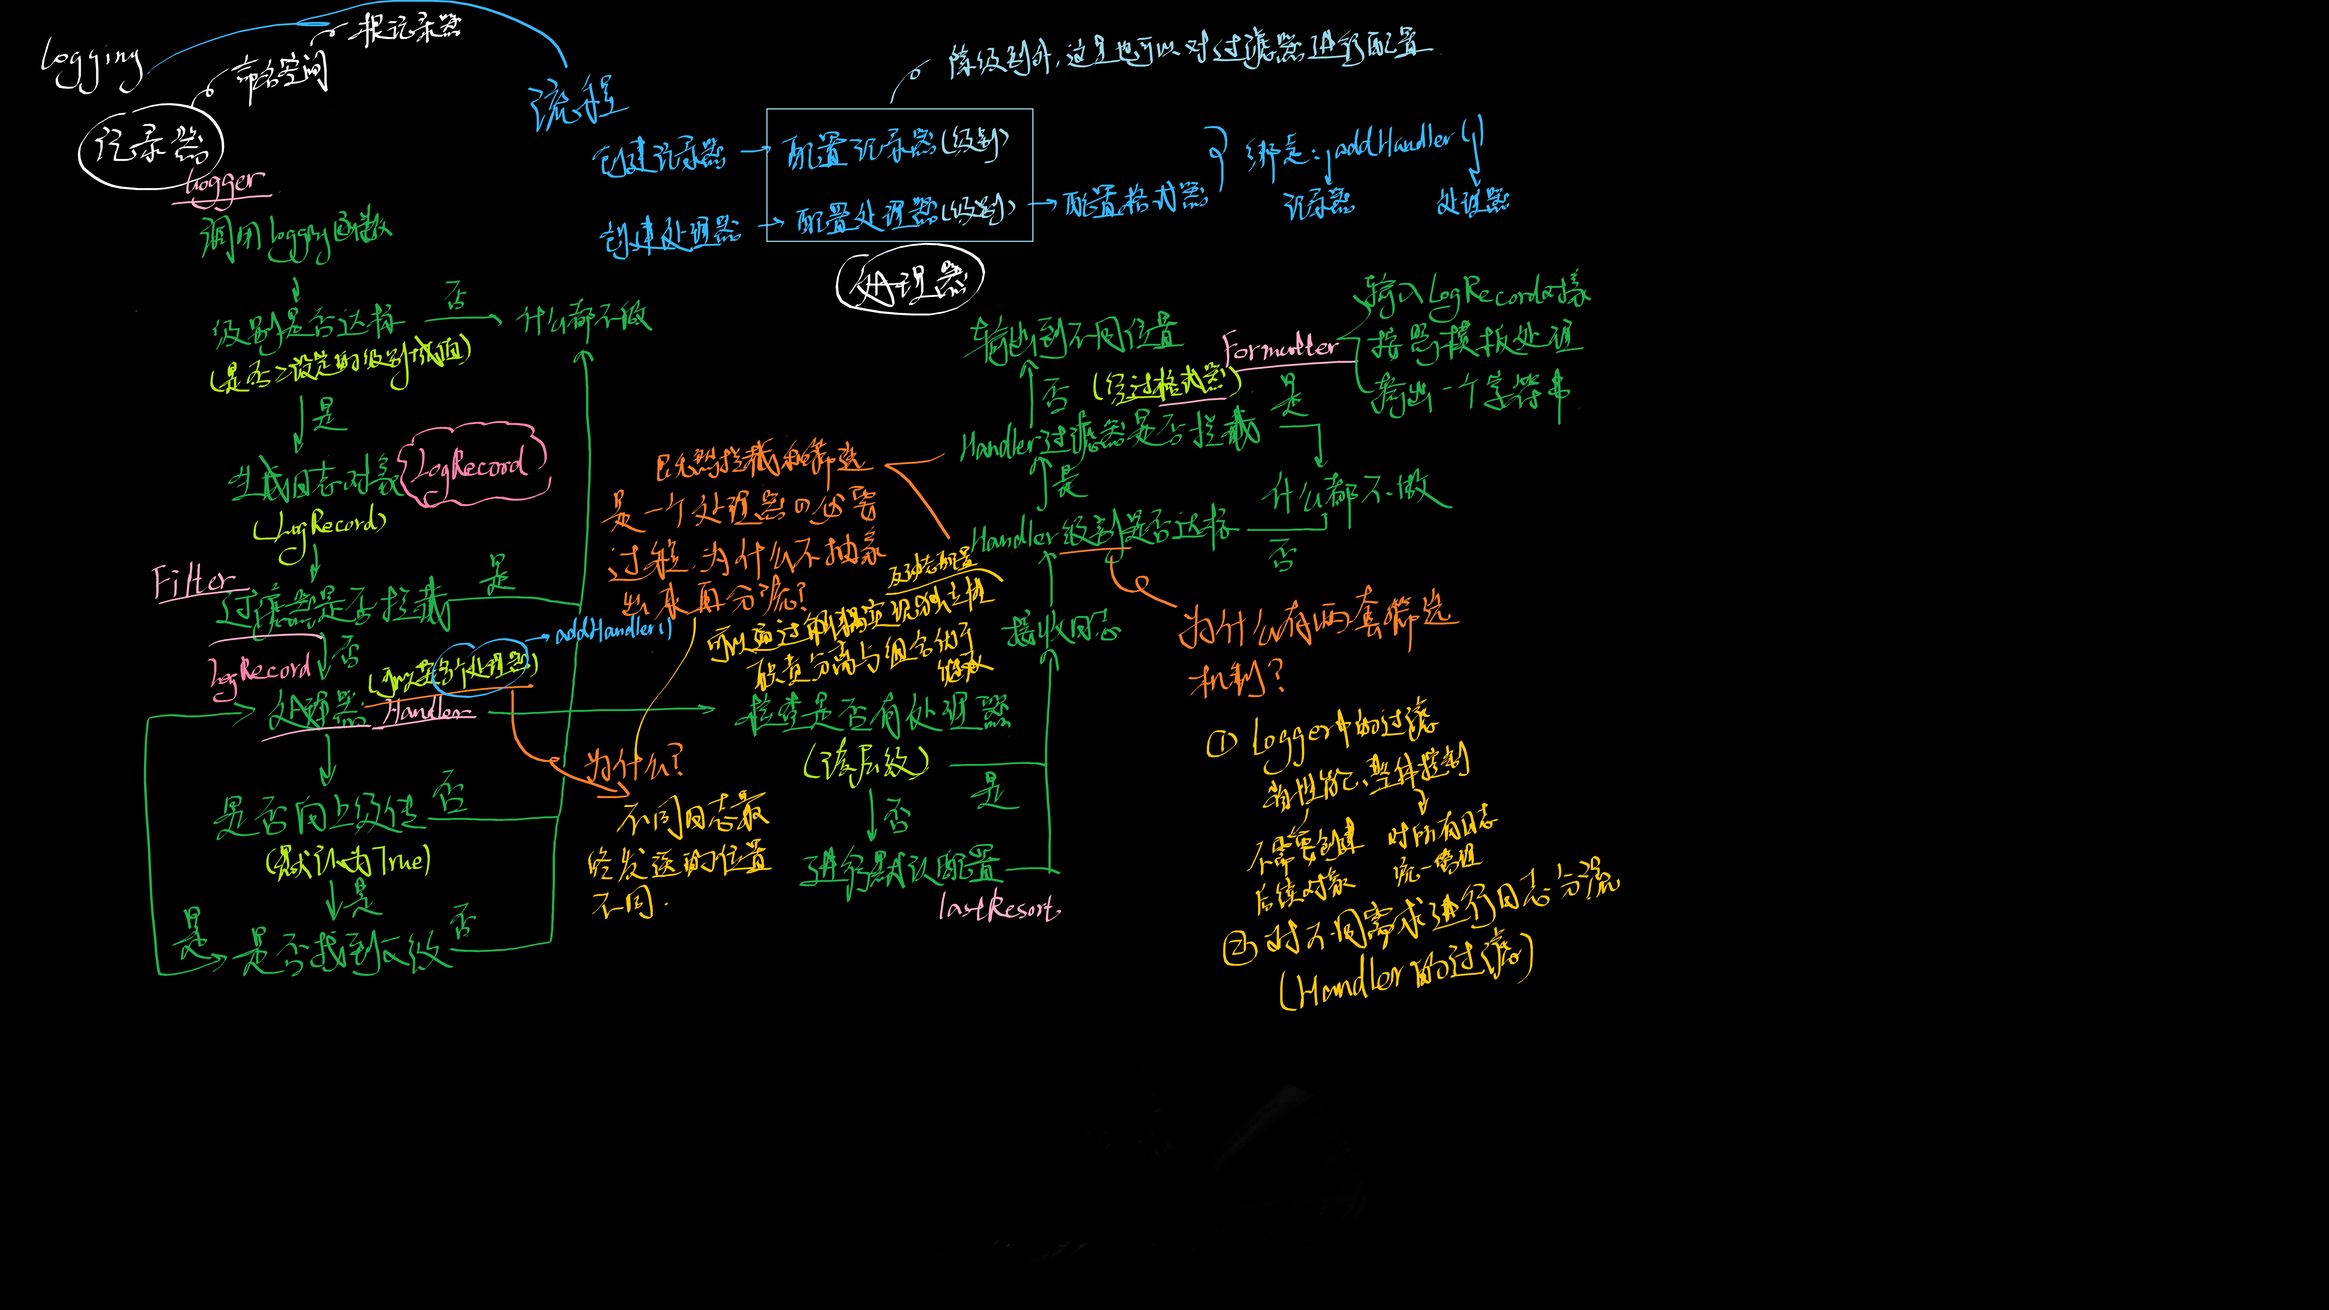
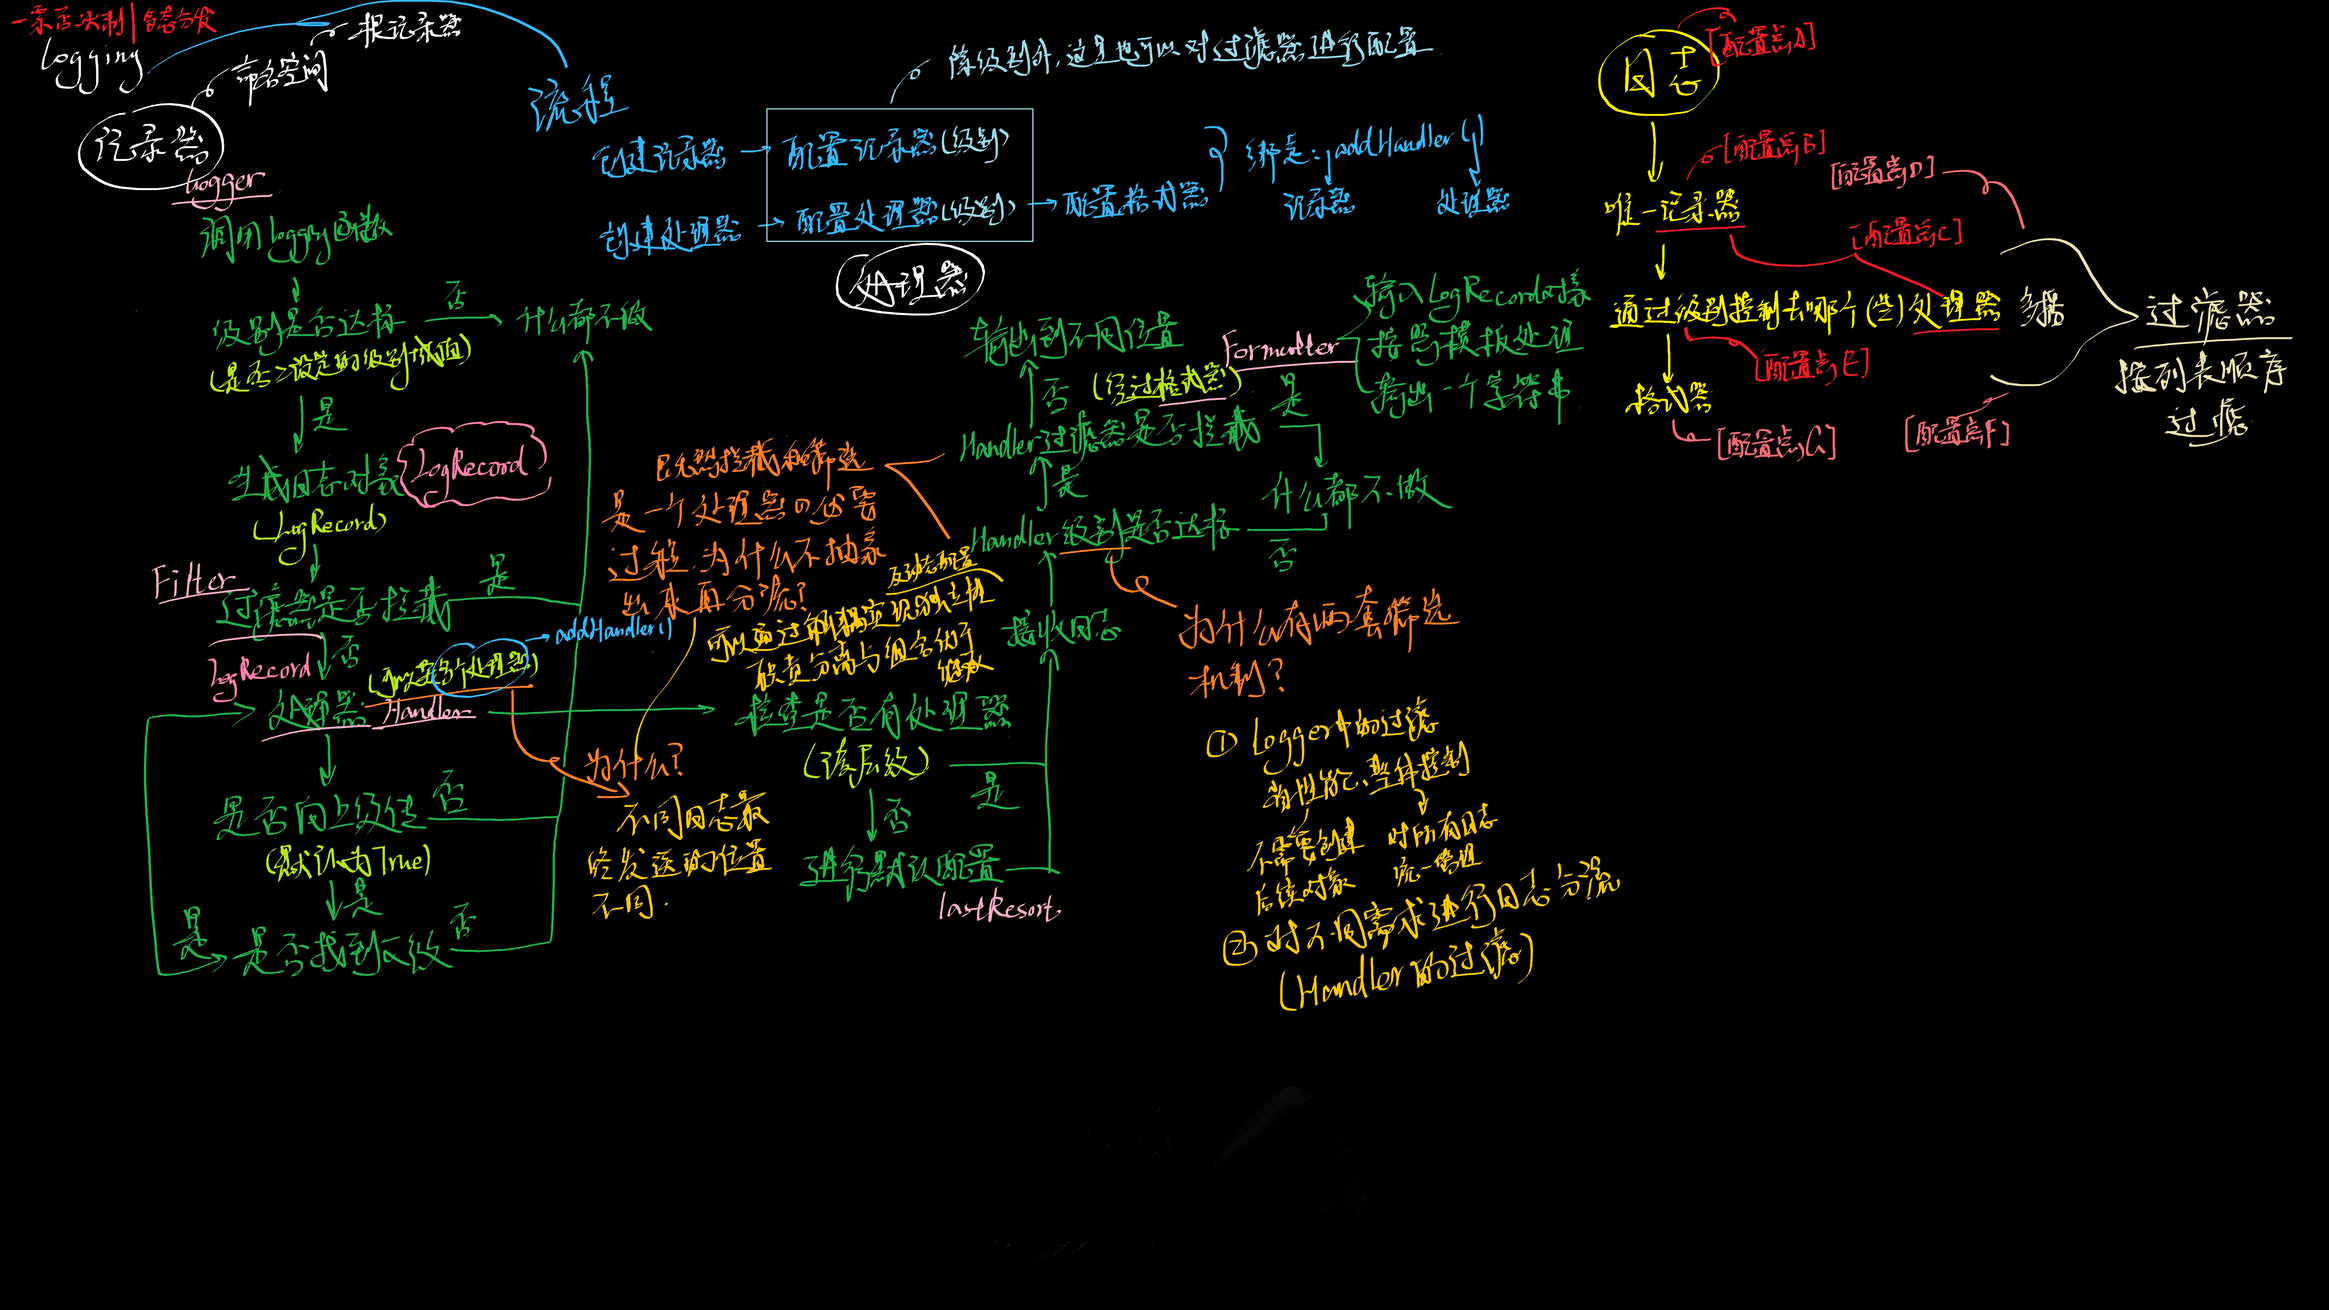
log：第4周 周三 logging学习日志及相关材料 2026.11.9

diff --git a/第四周/11-4_测试.py b/第四周/11-4_测试.py
@@ -1,0 +1,19 @@
+import logging
+
+TRACE_LEVEL = 5 # 级别值
+logging.addLevelName(TRACE_LEVEL, "TRACE") # 新增级别，值和名称
+
+logger = logging.getLogger("aaa")
+logging.basicConfig(level=TRACE_LEVEL)
+
+logger.log(TRACE_LEVEL,"新增级别日志") # 根据级别值生成该级别的日志
+
+logging.basicConfig(level=logging.INFO)
+logger = logging.getLogger("aaa")
+
+try:
+    result = 1/0
+except:
+    logger.exception("出现了错误")
+    
+

diff --git a/第四周/学习日志/2026-11-4_周三.md b/第四周/学习日志/2026-11-4_周三.md
@@ -4,14 +4,19 @@ logging是一个模块，用于对不同的情况做日志区分和内容。
 其核心在于日志对象LogRecord（是一个实例对象），运作在其基础上展开。  
 围绕LogRecord，大抵经历了生成->筛选->再筛选->格式化LogRecord->输出LogRecord这几个环节，在实际操作中，我们做的是对生成、筛选、格式化、输出这几个环节的配置。  
 ### 关于logging的组成
-1、日志对象LogRecord：整个过程中针对的对象   
-2、记录器Logger：生成日志对象，初次筛选日志对象  
-3、处理器Handler：二次筛选日志对象  
-4、过滤器Filter：筛选日志对象  
-5、格式器Formatter：格式化日志对象
+1、日志对象LogRecord：整个过程中面向的对象；   
+2、记录器Logger：初次筛选日志对象级别，生成日志对象LogRecord，并且对日志对象进行进一步的操作和筛选（如有）；  
+3、处理器Handler：二次筛选日志对象级别，并且对日志对象进行进一步的操作和筛选（如有）；  
+4、过滤器Filter：在记录器和处理器中对日志对象做进一步的操作和筛选；  
+5、格式器Formatter：格式化日志对象，使其成为最终可以进行输出的期望文本格式
 ### 关于logging的过程
-记录器两次筛选->处理器两次筛选->格式器格式化->发送到指定位置（发送到哪里由不同的处理器决定）  
-但是实际上这只是一个极度抽象的模型。在实际中，因为emit( )发射方法的不同，所以流程也会有所不同，同样这也是在处理器的创建中被提到的。
+指定日志级别和内容->  
+记录器两次筛选（分别是级别筛选【需要配置记录器级别】和过滤器筛选【需要配置过滤器】）->  
+处理器两次筛选（分别是级别筛选【需要配置记录器级别】和过滤器筛选【需要配置过滤器】）以及向上传递【需要配置是否向父级传递】->  
+格式器格式化最终的输出格式【需要配置格式器】->  
+发送到指定位置（发送到哪里由不同的处理器及其配置决定）【需要配置处理器的输出目标】  
+但是实际上这只是一个极度抽象的模型。在实际中，因为emit( )发射方法的不同，所以流程也会有所不同，同样这也是在【处理器的创建】中被提到的部分。  
+其中，在处理器的筛选中，第一次的级别筛选是为了将日志传入不同的处理器（如果有多个处理器）。  
 ### 关于logging的配置
 #### 首先，需要先创建一个日志记录器，这样做的目的是获取一个记录器对象。  
 其中，`__name__`属性是为了标识日志的来源。当多个文件（2个及以上）该属性相同时，会返回相同的记录器对象。（即两个文件都定义了logger = logging.getLogger(aa.py)，实际上指向的是同一个记录器对象）  
@@ -21,7 +26,7 @@ logging是一个模块，用于对不同的情况做日志区分和内容。
 import logging
 logger = logging.getLogger(__name__)
 ```
-#### 其次，需要再创建处理器对象。  
+#### 其次，需要再创建处理器对象。（并非只需要创建记录器和处理器，只是过滤器和格式器并不是大多数情况需要的，所以分别放在记录器和处理器的配置中）  
 其中，可供创建的处理器有以下几类：  
 __1、基础控制台与文件__  
 StreamHandler（输出到流，默认是sys.stderr控制台），开发调试用；  
@@ -61,14 +66,213 @@ class aaa(logging.Handler):
     def emit(self,record):
         pass
 ```
-#### 之后，需要对记录器和处理器进行配置
-在此之前，需要先了解一下过滤器：  
+#### 之后，需要对记录器和处理器进行配置（配置它们的运行机制）  
+##### 对于记录器来讲  
+两个筛选过程：级别筛选和过滤器过滤；  
+两个传递过程：把日志对象传送到处理器，以及向上传递处理后的日志对象  
 
-配置它们的运行机制。  
-对于记录器来讲：  
-两次筛选过程：级别筛选和过滤器过滤；  
+共有四个配置点：记录器级别配置、记录器绑定过滤器（如有多个过滤器，且过滤器之间的执行有冲突时需要通过配置过滤器绑定顺序的方式决定过滤器的执行顺序）、记录器绑定处理器、单条日志是否向上传递  
+其中，必要的配置是将处理器绑定给记录器。  
 ```python
-logger.setLevel(logging.INFO) # 设置记录器的门槛级别，高于则放行
-filter(self,record)
-把日志对象传递给处理器；  
-向上传递处理后的日志对象
+logger.setLevel(logging.INFO) # 设置记录器的门槛级别
+
+logger.addHandler(handler) # 给记录器绑定处理器
+logger.removeHandler(handler) # 删除已绑定的处理器
+
+logger.addFilter(filter) # 给记录器绑定过滤器
+logger.removeFilter(filter) # 删除已绑定的过滤器
+
+logger.propagete = True # 设置是否向上传递，True为是，False为否
+```
+##### 关于过滤器
+以上出现了关于绑定过滤器的配置。但在绑定过滤器之前，需要先创建一个过滤器对象。创建一个过滤器对象有以下三种方法：
+```python
+# 创建一个包含filter的类
+class myfilter:
+    def filter(self,logrecord):
+        return True
+
+# 通过logging.Filter(def)创建
+def aaa(logrecord):
+    return True
+logging.Filter(aaa)
+
+# 直接在创建时传入一个可调用对象（包括普通函数或实现了__call__的类实例）
+logger.addFilter(aaa)
+```  
+其中，关于过滤器有两点：  
+第一，无论是以上哪种创建方式，过滤器的底层一定是一个函数对象，并且这个函数对象一定是一个返回了可以判断真假值的函数对象；  
+第二，关于传入的logrecord参数，其本质是记录器创建的日志对象，对于日志对象可以操作的部分如下：
+```python
+record.msg # 传入的原始日志内容
+record.getMessage # 日志纯文本内容
+record.args # 格式化参数（日志内容中占位符的内容）
+record.levelno # 日志级别的数字
+record.levelname # 日志级别的名称
+record.name # 记录器的名字
+record.pathname # 产生该日志的python文件的绝对路径
+record.lineno # 产生日志的代码行号
+record.funcName # 产生日志的函数名
+record.created # 日志创建的时间戳
+record.exc_info # 异常信息（如有）
+```
+由于存在传入日志对象的特性，过滤器不止起到拦截的作用，同时也可以对传入的日志对象做深度加工（此时需要返回一个record对象来替换后续处理流程中的原对象，在3.12版本以上支持）：
+```python
+import logging,copy
+
+class changeFilter(logging,Filter):
+
+    def filter(self,record):
+
+        new_record = copy.copy(record)
+        new_record.msg = f"新增信息：{new_record.msg}"
+
+        return new_record
+```
+当有多个过滤器对同一条日志对象进行处理时，只要有一个过滤器返回了False，这条日志对象就会被拦截。  
+##### 对于单个处理器来讲（之所以是单个是因为一个记录器可以同时绑定多个处理器）
+两个筛选过程：级别筛选和过滤器过滤；（其中，在一个记录器有多个处理器的情况下，级别筛选决定这个日志对象进入哪一个处理器）  
+一个传递过程：把日志对象传递给格式器；  
+一次输出过程：输出到输出对象。 
+
+共有四个配置点：分别是单个处理器的级别配置、处理器绑定过滤器（如有多个过滤器，且过滤器之间的执行有冲突时需要通过配置过滤器绑定顺序的方式决定过滤器的执行顺序）、处理器绑定格式器、处理器绑定输出对象  
+其中，必要的配置是输出对象（但实际上，这一点在进行处理器的创建时就进行了配置）。
+```python
+handler.setLevel() # 给处理器设置级别门槛
+
+handler.setFormatter() # 给处理器选择一个Formatter对象
+
+handler.addFilter() # 给处理器绑定一个过滤器对象
+handler.removeFilter() # 删除一个已绑定在处理器上的过滤器对象
+```
+##### 关于格式器
+以上出现了关于绑定格式器的配置。但在绑定格式器之前，需要先创建格式器对象。创建一个格式器对象使用以下方法：
+```python
+# 自己创建一个格式器
+formatter = logging.Formatter.__init__(fmt=None,detefmt-None,style='%') # 消息格式字符串、日期格式字符串、占位符格式
+
+# 关于占位符格式：'%'、'{'、'$'
+aa = f"百分号占位符%(levelname)s" # 键名是record对象的属性
+bb = f"括号占位符{levelname}"
+cc = f"$占位符${levelname}"
+```
+格式器并不是刚需配置。当我们没有手动配置时，如果日志是一个字符串，会按照原字符串输出；如果日志是一个时间，则按照`%Y-%m-%d %H:%M:%S`的格式格式化（即年月日时分秒）。  
+#### 以上的配置十分复杂，但并不是每次都需要配置所有部分，并且有简便配置的方法。
+一定需要配置的三个配置点：记录器的创建与获取、记录器与处理器的绑定、处理器的输出目标，同样的，也需要创建处理器。  
+而上述未提到的一定需要配置的部分，如过滤器和格式器，则在有需要时进行创建和配置。  
+
+除此之外，存在一个“偷懒方法”进行配置：
+```python
+logging.basicConfig(filename='example.log', encoding='utf-8', level=logging.DEBUG)
+```
+该方法可以配置：
+
+文件写入模式（filemode）：指定打开文件的模式，仅在提供 filename 时生效，默认为追加模式 'a'，也可设为覆盖模式 'w'。
+
+日志格式（format）：指定日志输出的格式字符串，例如 '%(asctime)s - %(levelname)s - %(message)s'。
+
+日期格式（datefmt）：指定 %(asctime)s 中日期时间的格式，遵循 time.strftime() 的规则。
+
+根记录器级别（level）：设置根记录器的日志级别，低于该级别的日志会被忽略，例如 logging.INFO 或 logging.DEBUG。
+
+输出流（stream）：指定一个流对象（如 sys.stdout）来创建 StreamHandler。若同时提供 filename 和 stream，stream 会被忽略。
+
+处理器列表（handlers）：提供一个处理器可迭代对象并添加到根记录器。未设置格式器的处理器会使用默认格式器。
+
+强制重配（force）：设为 True 时，会在配置前移除并关闭根记录器上已存在的所有处理器，允许重复调用 basicConfig() 重新配置。
+
+文件编码（encoding）：指定日志文件的编码，仅在提供 filename 时生效。
+
+错误处理（errors）：指定编码错误的处理方式，仅在提供 filename 时生效。
+
+附加属性（extra）：传入一个字典，用于向日志事件的 LogRecord 注入自定义属性。
+
+### 关于logging的使用
+大体上讲，在使用时，logging有两个组成部分：日志级别和日志内容。  
+##### 其中，关于日志级别（共5种）：  
+DEBUG 用于调试，10； 
+INFO 用于给运维或系统监控查看，说明程序正常运行，20；  
+WARNING 用于程序还可以正常运行，但概率会出问题，或者未来会出问题的情况，30；  
+ERROR 用于程序出问题，但整体没有瘫痪的情况，40；  
+CRITICAL 用于程序已经彻底瘫痪，或者面临极其严重的安全问题，50
+##### 关于日志内容
+日志内容可以是任意对象。大体上可以分为字符串对象和非字符串对象。  
+对于字符串对象：  
+可以是纯字符串，或者带占位符的占位符字符串，或者F-string（但有时会有轻微性能损耗）  
+对于非字符串对象：  
+如数字、列表、字典、类实例等，会用str( )将其转换成字符串。  
+
+使用方式：
+```python
+logger.info("这是一个调试日志")
+
+aaa = "a"
+logger.info("aaa的值%s",a)
+```
+##### 关于其他使用方式：错误与自定义级别
+在日志级别中提到了error级别，有一个函数`Logger.exception()`也可以创建与其相似的日志信息，不过这个函数同时还可以记录堆栈追踪。  
+但是，`Logger.exception()`只能在异常处理的except中进行使用。  
+```python
+import logging
+
+logging.basicConfig(level=logging.INFO)
+logger = logging.getLogger("aaa")
+
+try:
+    result = 1/0
+except:
+    logger.exception("出现了错误")
+```
+以上代码的运行结果：
+```text
+ERROR:aaa:出现了错误
+Traceback (most recent call last):
+  File "d:\实训\学习计划\第四周\11-4_测试.py", line 7, in <module>
+    result = 1/0
+             ~^~
+ZeroDivisionError: division by zero
+```
+除此以外，还可以自定义日志级别：
+```python
+import logging
+
+TRACE_LEVEL = 5 # 定义级别
+logging.addLevelName(TRACE_LEVEL, "TRACE") # 注册级别
+
+logger = logging.getLogger("aaa") # 创建记录器
+logging.basicConfig(level=TRACE_LEVEL) # 配置记录器
+
+logger.log(TRACE_LEVEL,"新增级别日志") # 根据级别值生成该级别的日志
+
+logging.basicConfig(level=logging.INFO)
+logger = logging.getLogger("aaa")
+```
+输出：
+```text
+TRACE:aaa:新增级别日志
+```
+以上的使用自定义级别的log方法是一个简单的使用方法，但如果期望像使用logger.info一样使用logger.trace，需要把该方法添加到Logger类：
+```python
+import logging
+
+TRACE_LEVEL = 5  # 定义级别
+logging.addLevelName(TRACE_LEVEL, "TRACE") # 注册级别
+
+def trace(self, message, *args, **kwargs):
+
+    if self.isEnabledFor(TRACE_LEVEL): # 判断当前的记录器是否允许输出这个级别
+        self._log(TRACE_LEVEL, message, args, **kwargs)
+
+logging.Logger.trace = trace # 将函数挂在类上并命名为trace
+```
+或者使用lamba：
+```python
+import logging
+
+TRACE_LEVEL = 5 # 定义级别
+logging.addLevelName(TRACE_LEVEL, "TRACE") # 注册级别
+
+logger = logging.getLogger("aaa") #创建记录器对象
+logger.TRACE = lambda msg, *args, **kwargs: logger.log(TRACE_LEVEL, msg, *args, **kwargs) # 写入方法，但需要在记录器实例对象上创建
+```
+
